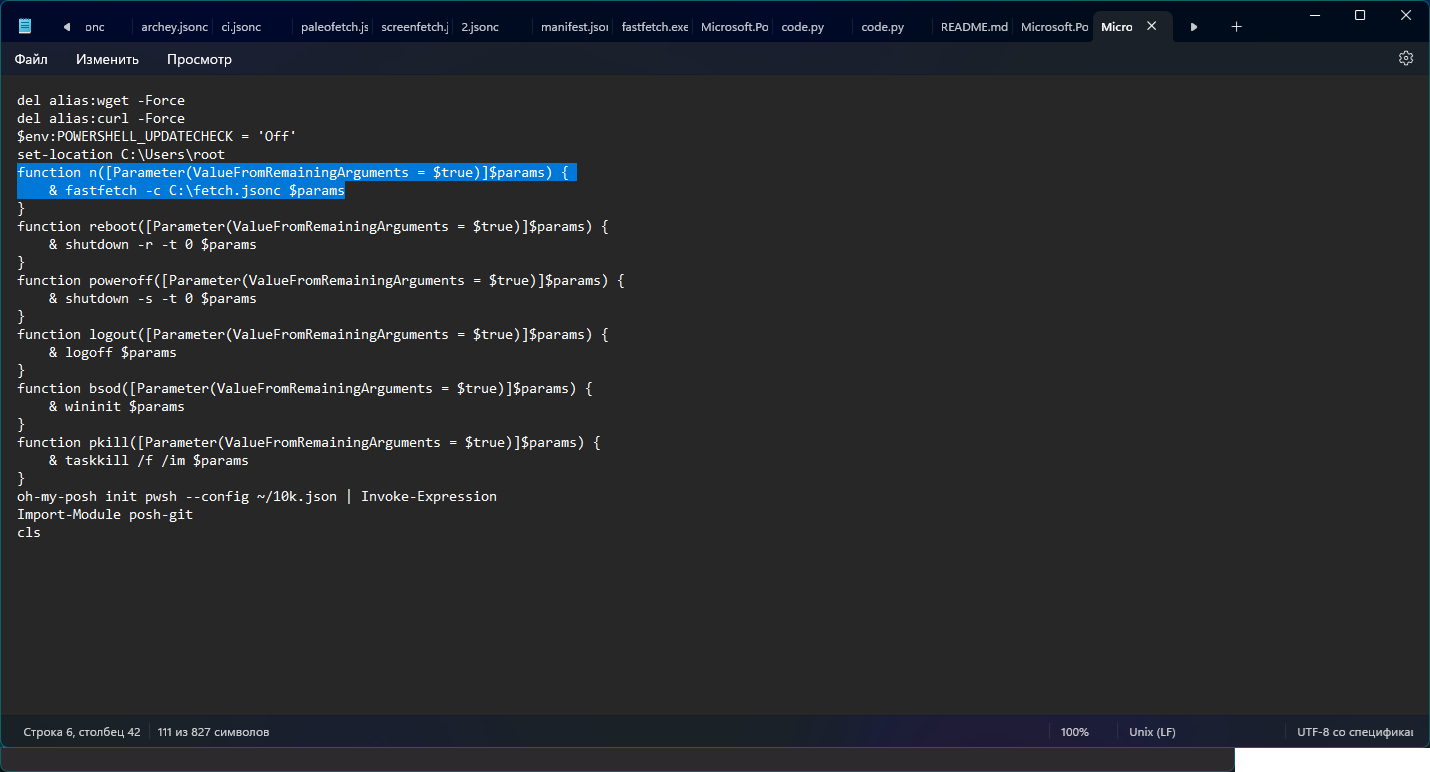
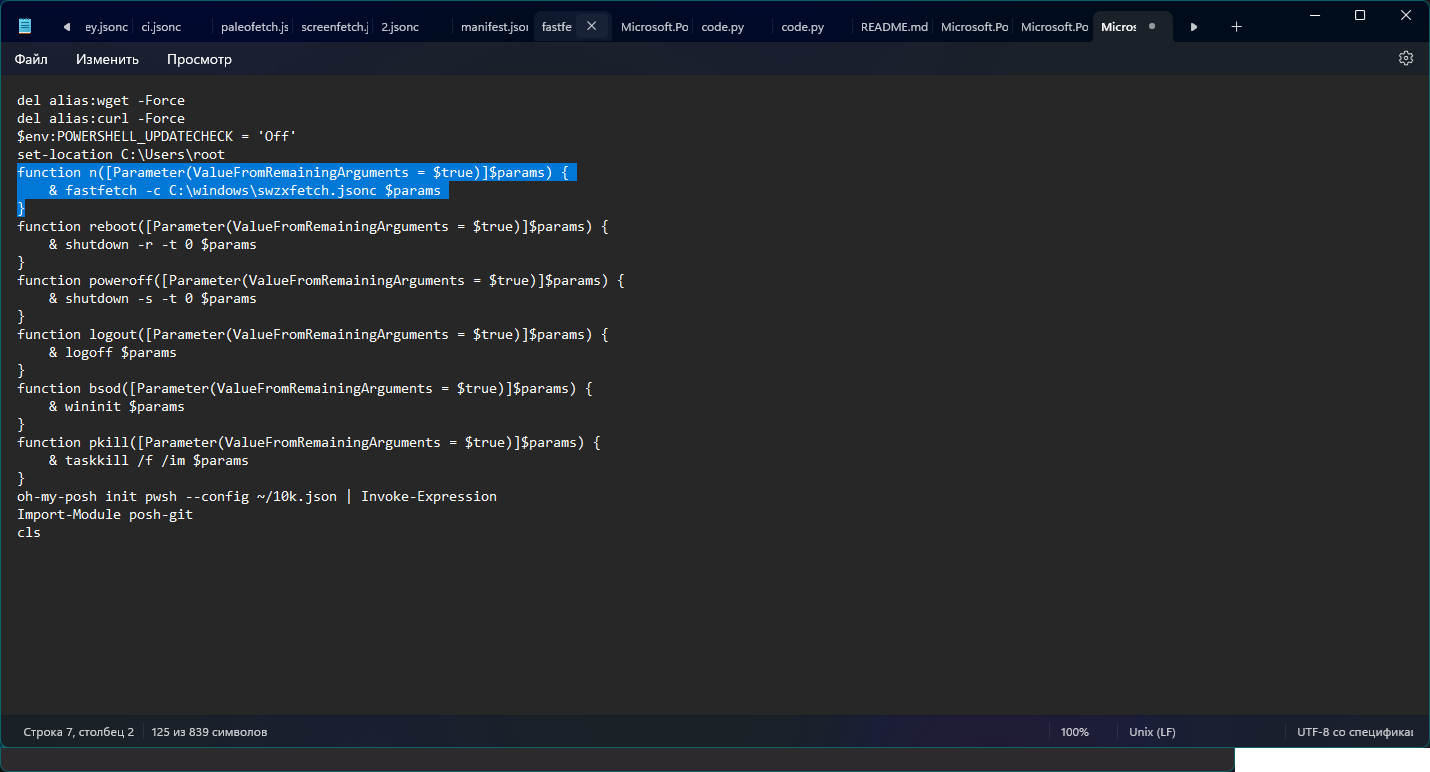
Update

diff --git a/README_RU.md b/README_RU.md
@@ -26,7 +26,8 @@
 # Алиасы для PowerShell
 10. Впишите команду `notepad $profile`
 11. Вставьте это - function n([Parameter(ValueFromRemainingArguments = $true)]$params) {\
-& fastfetch -c C:\Windows\swzxfetch.jsonc $params в блокнот и сохраните!
+    & fastfetch -c C:\windows\swzxfetch.jsonc $params\
+} в блокнот и сохраните!
 
 ![Alias](assets/pic4.png)
 
